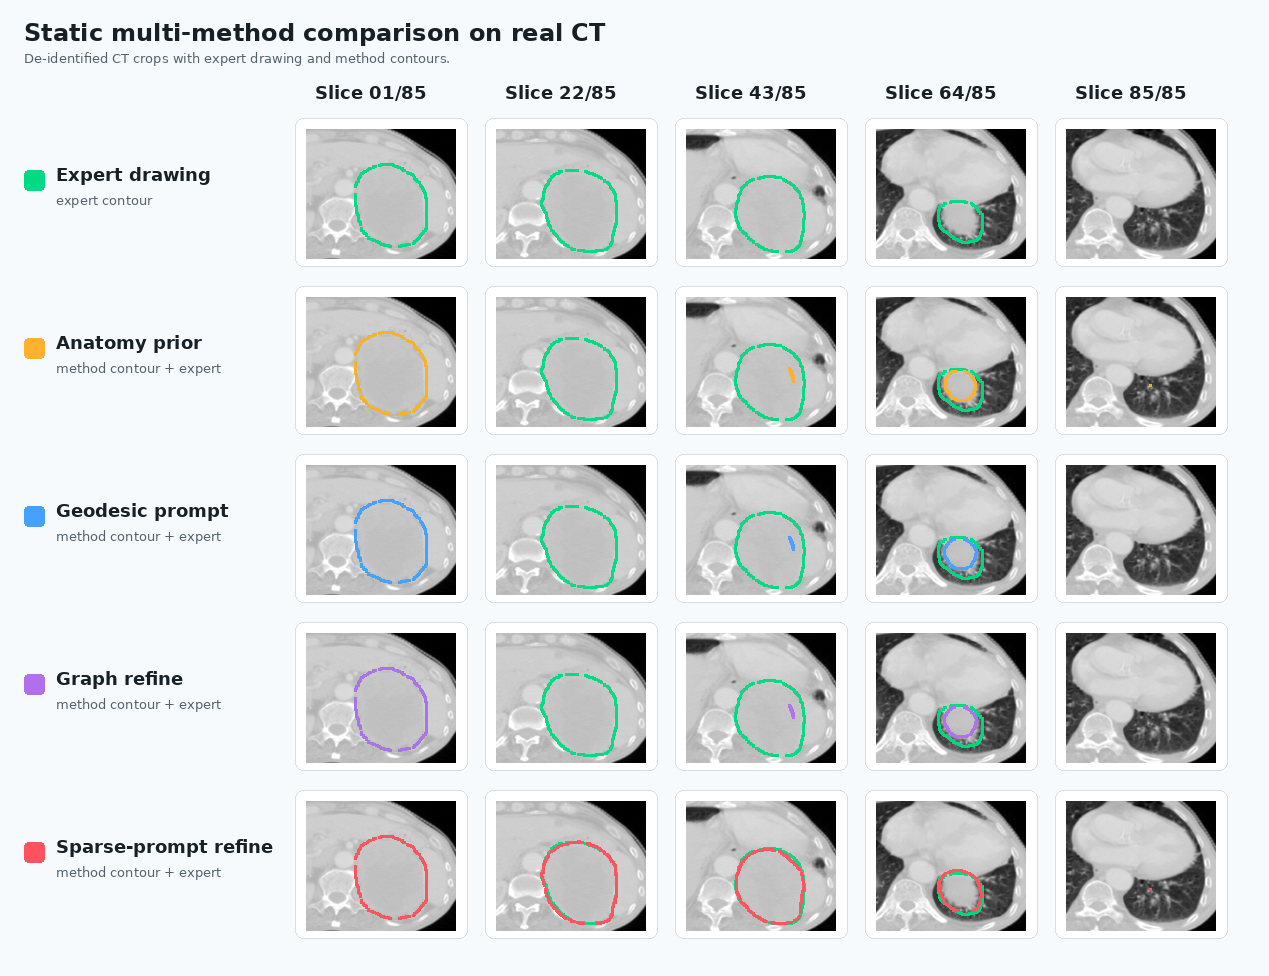
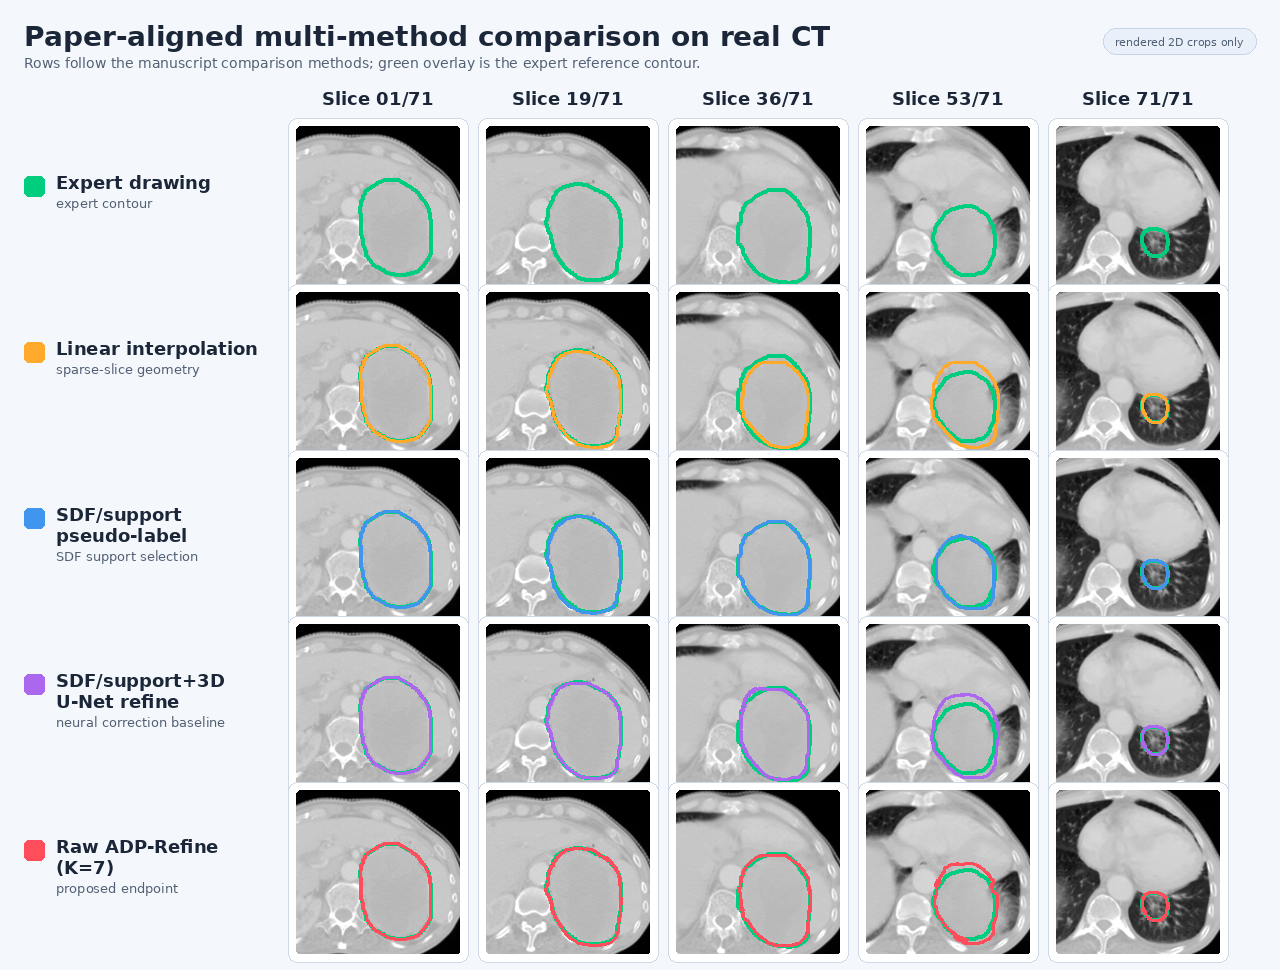
Align public workflow visuals with manuscript methods

diff --git a/site/index.html b/site/index.html
@@ -550,22 +550,24 @@
     <section id="demo">
       <div class="demo-wrap">
         <div class="demo-media">
-          <img src="assets/real_ct_workflow_demo.gif" alt="Dynamic sparse-prompt workflow on de-identified real CT and expert drawing">
+          <img src="assets/real_ct_workflow_demo.gif" alt="Dynamic paper-aligned sparse-prompt workflow on de-identified real CT and expert drawing">
         </div>
         <div>
           <div class="section-head">
             <h2>Dynamic Real CT Workflow Display</h2>
             <p>
-              The animation shows the workflow on rendered 2D CT crops:
-              CT context, expert drawing, candidate method contours, and final
-              sparse-prompt refinement. It contains no case ID, scan date,
-              private path, or volumetric medical file.
+              The animation follows the manuscript method order on rendered 2D
+              CT crops: expert drawing, Linear interpolation, SDF/support
+              pseudo-label, SDF/support+3D U-Net refine, and Raw ADP-Refine
+              (K=7). It contains no case ID, scan date, private path, or
+              volumetric medical file.
             </p>
           </div>
           <div class="tag-row">
             <span class="tag">Real CT crop</span>
             <span class="tag">Expert drawing</span>
-            <span class="tag">Method contours</span>
+            <span class="tag">Paper method labels</span>
+            <span class="tag">ADP-Refine</span>
             <span class="tag">No identifiers</span>
           </div>
         </div>
@@ -597,17 +599,17 @@
           </div>
         </div>
         <div class="panel result-panel">
-          <img src="assets/real_ct_multi_method_comparison.png" alt="Static real CT multi-method segmentation comparison">
+          <img src="assets/real_ct_multi_method_comparison.png" alt="Static real CT multi-method segmentation comparison with paper-aligned labels">
           <div class="result-body">
             <h3>Static Multi-Method Comparison</h3>
             <p>
-              The static panel compares expert drawing, preprocessing variants,
-              graph refinement, and final sparse-prompt refinement on the same
-              CT slice positions.
+              The static panel compares expert drawing, Linear interpolation,
+              SDF/support pseudo-label, SDF/support+3D U-Net refine, and Raw
+              ADP-Refine (K=7) on the same CT slice positions.
             </p>
             <div class="tag-row">
               <span class="tag">Real CT crops</span>
-              <span class="tag">Generic method labels</span>
+              <span class="tag">Paper method labels</span>
               <span class="tag">No source volumes</span>
             </div>
           </div>
@@ -617,14 +619,14 @@
           <div class="result-body">
             <h3>Dynamic Workflow Display</h3>
             <p>
-              The workflow animation follows CT context, expert drawing,
-              candidate contours, and final refinement across the anonymized
-              target range.
+              The workflow animation uses the same paper-aligned method order
+              as the static comparison and keeps each contour legend inside its
+              own panel.
             </p>
             <div class="tag-row">
               <span class="tag">CT context</span>
               <span class="tag">Expert contour</span>
-              <span class="tag">Refinement output</span>
+              <span class="tag">ADP-Refine</span>
             </div>
           </div>
         </div>

diff --git a/README.md b/README.md
@@ -19,18 +19,22 @@ identifiers, and study-level dataset details are not included.
 
 <p align="center">
   <strong>Static multi-method comparison</strong><br>
-  <img src="site/assets/real_ct_multi_method_comparison.png" width="760" alt="Static de-identified real CT multi-method segmentation comparison">
+  <img src="site/assets/real_ct_multi_method_comparison.png" width="760" alt="Static de-identified real CT comparison with paper-aligned method labels">
 </p>
 
 <p align="center">
   <strong>Dynamic workflow display</strong><br>
-  <img src="site/assets/real_ct_workflow_demo.gif" width="760" alt="Dynamic workflow display on de-identified real CT and expert drawing">
+  <img src="site/assets/real_ct_workflow_demo.gif" width="760" alt="Dynamic paper-aligned workflow display on de-identified real CT and expert drawing">
 </p>
 
 The repository homepage shows the three public result views directly. These
 assets are rendered 2D CT crops with contour overlays from one de-identified
 case. Original DICOM/NIfTI volumes, case identifiers, acquisition dates, local
 paths, and scan metadata are not included.
+
+The workflow and multi-method comparison use the manuscript method order:
+Expert drawing, Linear interpolation, SDF/support pseudo-label,
+SDF/support+3D U-Net refine, and Raw ADP-Refine (K=7).
 
 - Single-case complete slice display:
   [`site/real-results/single-case-complete-slices.html`](site/real-results/single-case-complete-slices.html)
@@ -76,10 +80,11 @@ metadata.
   axial slice gallery rendered from de-identified real CT crops and contours.
 - `site/assets/real_ct_single_case_slices.gif`: dynamic single-case CT slice
   display with expert drawing and sparse-prompt refinement contours.
-- `site/assets/real_ct_multi_method_comparison.png`: static multi-method
-  segmentation comparison on real CT crops.
+- `site/assets/real_ct_multi_method_comparison.png`: static paper-aligned
+  comparison of expert drawing, Linear interpolation, SDF/support pseudo-label,
+  SDF/support+3D U-Net refine, and Raw ADP-Refine (K=7).
 - `site/assets/real_ct_workflow_demo.gif`: dynamic workflow display on real CT
-  crops, expert drawing, candidate contours, and final refinement.
+  crops using the same paper-aligned method labels.
 
 ## Environment
 